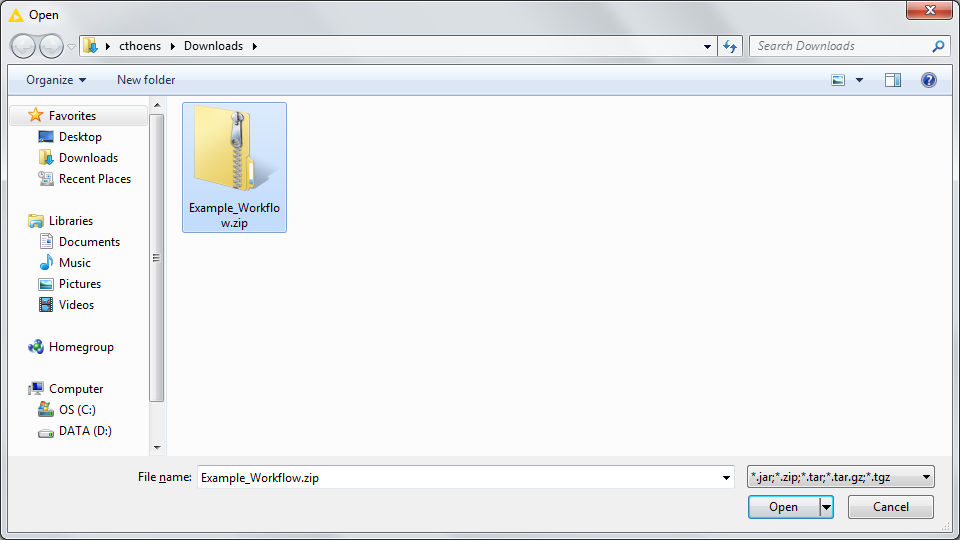
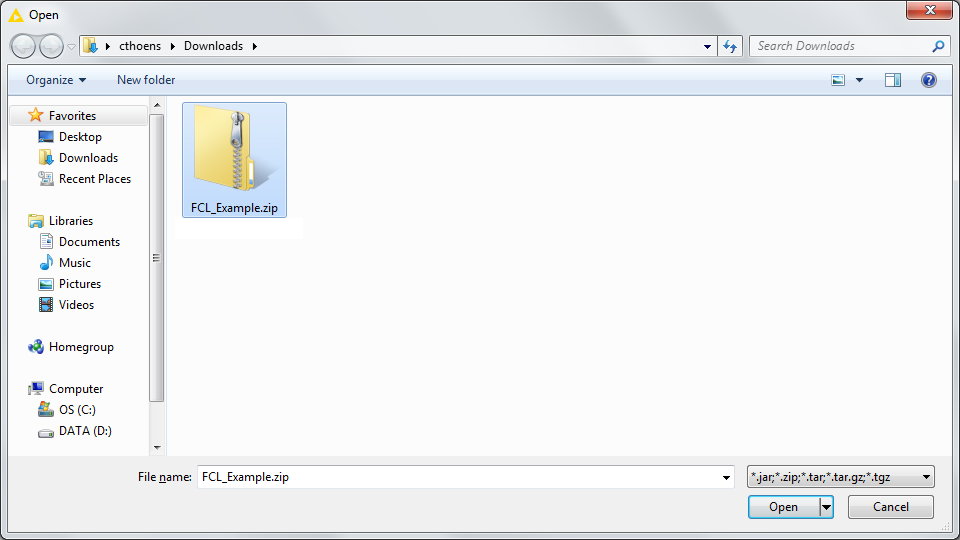
import tutorial updated

Changed region(s): [[0.1875, 0.3556, 0.3125, 0.4444], [0.1875, 0.8593, 0.3438, 0.9185]]

diff --git a/GitHubPages/documents/foodchainlab_import/import_DE.tex b/GitHubPages/documents/foodchainlab_import/import_DE.tex
@@ -40,7 +40,7 @@
 	\end{center}
 	\begin{itemize}
 		\item Wählen Sie einen gezippten Workflow-Ordner aus, den Sie auf Ihrem Dateisystem gespeichert haben. Klicken Sie auf \textbf{Open}.
-		\item Beispiel Workflow: \url{https://github.com/SiLeBAT/BfROpenLabResources/raw/master/GitHubPages/workflows/Example_Workflow.zip}
+		\item Beispiel Workflow: \url{https://github.com/SiLeBAT/BfROpenLabResources/raw/master/GitHubPages/workflows/FCL_Example.zip}
 	\end{itemize}
 \end{frame}
 

diff --git a/GitHubPages/documents/foodchainlab_import/import.tex b/GitHubPages/documents/foodchainlab_import/import.tex
@@ -40,7 +40,7 @@
 	\end{center}
 	\begin{itemize}
 		\item In the Open dialog that appears, select the zipped workflow and Click \textbf{Open}.
-		\item Example Workflow: \url{https://github.com/SiLeBAT/BfROpenLabResources/raw/master/GitHubPages/workflows/Example_Workflow.zip}
+		\item Example Workflow: \url{https://github.com/SiLeBAT/BfROpenLabResources/raw/master/GitHubPages/workflows/FCL_Example.zip}
 	\end{itemize}
 \end{frame}
 
